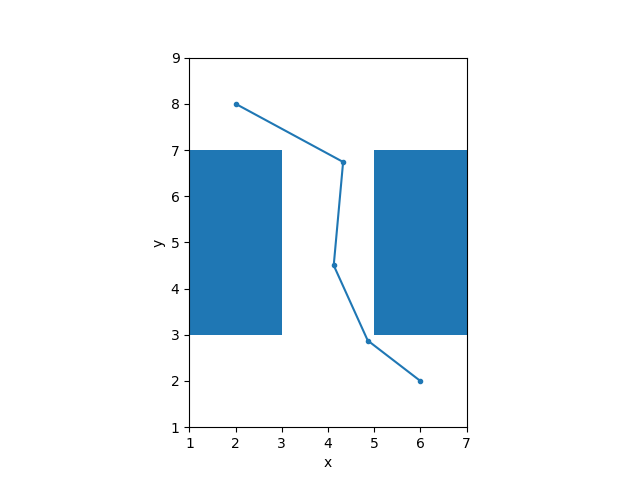
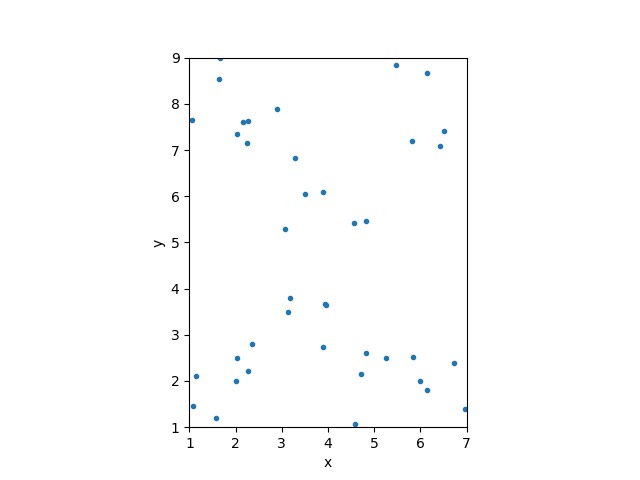
created composite roadmap as a vector of states, where each state is composed of 4 states from each robot

diff --git a/src/ProjectG.cpp b/src/ProjectG.cpp
@@ -92,11 +92,11 @@ std::vector<ompl::base::State *> createPRMNodes(og::PRM::Graph roadmap){
         states.push_back(state);
         
         // TODO: comment out, here to ensure/demo that I extracted the x, y, coordinates 
-        double x = state->as<ob::RealVectorStateSpace::StateType>()->values[0];
-        double y = state->as<ob::RealVectorStateSpace::StateType>()->values[1];
+        //double x = state->as<ob::RealVectorStateSpace::StateType>()->values[0];
+        //double y = state->as<ob::RealVectorStateSpace::StateType>()->values[1];
 
-        std::cout << "x: " << x << std::endl;
-        std::cout << "y: " << y << "\n" << std::endl;
+        //std::cout << "x: " << x << std::endl;
+        //std::cout << "y: " << y << "\n" << std::endl;
         
     }
     return states;
@@ -156,6 +156,92 @@ void planRobot(og::SimpleSetupPtr & ss, const char* robotID)
 
 }
 
+bool collisionForRobotConfigs(ob::State* r1, ob::State* r2, ob::State* r3, ob::State* r4)
+{
+    // Ensuring no collisions amongst robots for their current positions
+
+    double r1X = r1->as<ob::RealVectorStateSpace::StateType>()->values[0];
+    double r1Y = r1->as<ob::RealVectorStateSpace::StateType>()->values[1];
+
+    double r2X = r2->as<ob::RealVectorStateSpace::StateType>()->values[0];
+    double r2Y = r2->as<ob::RealVectorStateSpace::StateType>()->values[1];
+
+    double r3X = r3->as<ob::RealVectorStateSpace::StateType>()->values[0];
+    double r3Y = r3->as<ob::RealVectorStateSpace::StateType>()->values[1];
+
+    double r4X = r4->as<ob::RealVectorStateSpace::StateType>()->values[0];
+    double r4Y = r4->as<ob::RealVectorStateSpace::StateType>()->values[1];
+
+    // Probably less messy way of doing this, but leaving for now:
+    if(((r1X == r2X) and (r1Y == r2Y)) or ((r1X == r3X) and (r1Y == r3Y)) or ((r1X == r4X) and (r1Y == r4Y)))
+    {
+        return false;
+    }
+    if(((r2X == r3X) and (r2Y == r3Y)) or ((r2X == r4X) and (r2Y == r4Y)))
+    {
+        return false;
+    }
+    if(((r3X == r4X) and (r3Y == r4Y)))
+    {
+        return false;
+    }
+
+    // No collisions in position, valid configuration to add:
+    return true;
+
+}
+
+std::vector<std::vector<ob::ScopedState<>>> createCompositeRM(ob::StateSpacePtr r1Space, ob::StateSpacePtr r2Space, ob::StateSpacePtr r3Space, ob::StateSpacePtr r4Space)
+{
+    // Construct composite roadmap by going through each robots roadmap vertices, and creating a configuration of a higher dimension
+    // So, if we have 4 robots with the vertices, r1, r2, r3, r4, from each robots PRM, the composite space would be (r1, r2, r3, r4) for this point
+
+    // TODO: investigate how to handle the fact that some roadmaps have more states than others? --> I still am confused about this, should ask professor Kavraki in our meeting :) 
+
+    // Only add to composite roadmap if each position for the states are collision free amongst the robots
+    
+    // Vector of Vectors, we want the main 'list' to be composite states, and the composite states are a vector holding the configuration for each robot
+    std::vector<std::vector<ob::ScopedState<>>> compStates;
+
+    // First, loop through each of the PRM's (still not sure what to do when we have no more states in one of the robots list of configs)
+    // TODO: right now, stopping when smallest vector stops, feel like this is iffy, need to investigate.
+
+
+    //Iterators for each of the roadmaps
+    size_t i1 = 0;
+    size_t i2 = 0;
+    size_t i3 = 0;
+    size_t i4 = 0;
+
+    while((i1 < r1RM_nodes.size()) and (i2 < r2RM_nodes.size()) and (i3 < r3RM_nodes.size()) and (i4 < r4RM_nodes.size()))
+    {
+        // Now, check for collisions for the robot's positions, if no collisions, add to compStates, else continue looping
+        bool noCollision = collisionForRobotConfigs(r1RM_nodes[i1], r2RM_nodes[i2], r3RM_nodes[i3], r4RM_nodes[i4]);
+
+        if(noCollision)
+        {
+            // Now create an 'empty' vector to add to compStates:
+            std::vector<ob::ScopedState<>> tempVec;
+
+            // Add each config to it:
+            tempVec.push_back(ob::ScopedState<>(r1Space, r1RM_nodes[i1]));
+            tempVec.push_back(ob::ScopedState<>(r2Space, r2RM_nodes[i2]));
+            tempVec.push_back(ob::ScopedState<>(r3Space, r3RM_nodes[i3]));
+            tempVec.push_back(ob::ScopedState<>(r4Space, r4RM_nodes[i4]));
+
+            // Add full vector to the compState one:
+            compStates.push_back(tempVec);
+        }
+        i1++;
+        i2++;
+        i3++;
+        i4++;
+    }
+
+    return compStates;
+}
+
+
 
 int main(int, char **)
 {
@@ -195,6 +281,12 @@ int main(int, char **)
     planRobot(r3, "Robot 3");
     planRobot(r4, "Robot 4");
 
-    // TODO: now that we have these paths, going to try and get the full roadmaps for each of the robots instead of just solution paths
+    //og::PRM::Graph composite = createCompositeRM();
 
+    // Having composite RM return a vector of vectors of states so that we can sample from those in dRRT
+    std::vector<std::vector<ob::ScopedState<>>> compositeState = createCompositeRM(r1->getStateSpace(), r2->getStateSpace(), r3->getStateSpace(), r4->getStateSpace());
+
+    // This print is for checking that the states in our composite 'roadmap' are equal to the ammount of states in our smallest PRM roadmap
+    // It will be ^^ -2 because the start and goal are not a part of this :)
+    std::cout << compositeState.size() << std::endl;
 }

diff --git a/visualize.py b/visualize.py
@@ -8,7 +8,7 @@ import sys
 
 data = numpy.loadtxt('path.txt')
 fig, ax = plt.subplots()
-ax.plot(data[:, 0],data[:, 1],'.-')
+ax.plot(data[:, 0],data[:, 1],'.')
 
 wait = True
 while wait:
